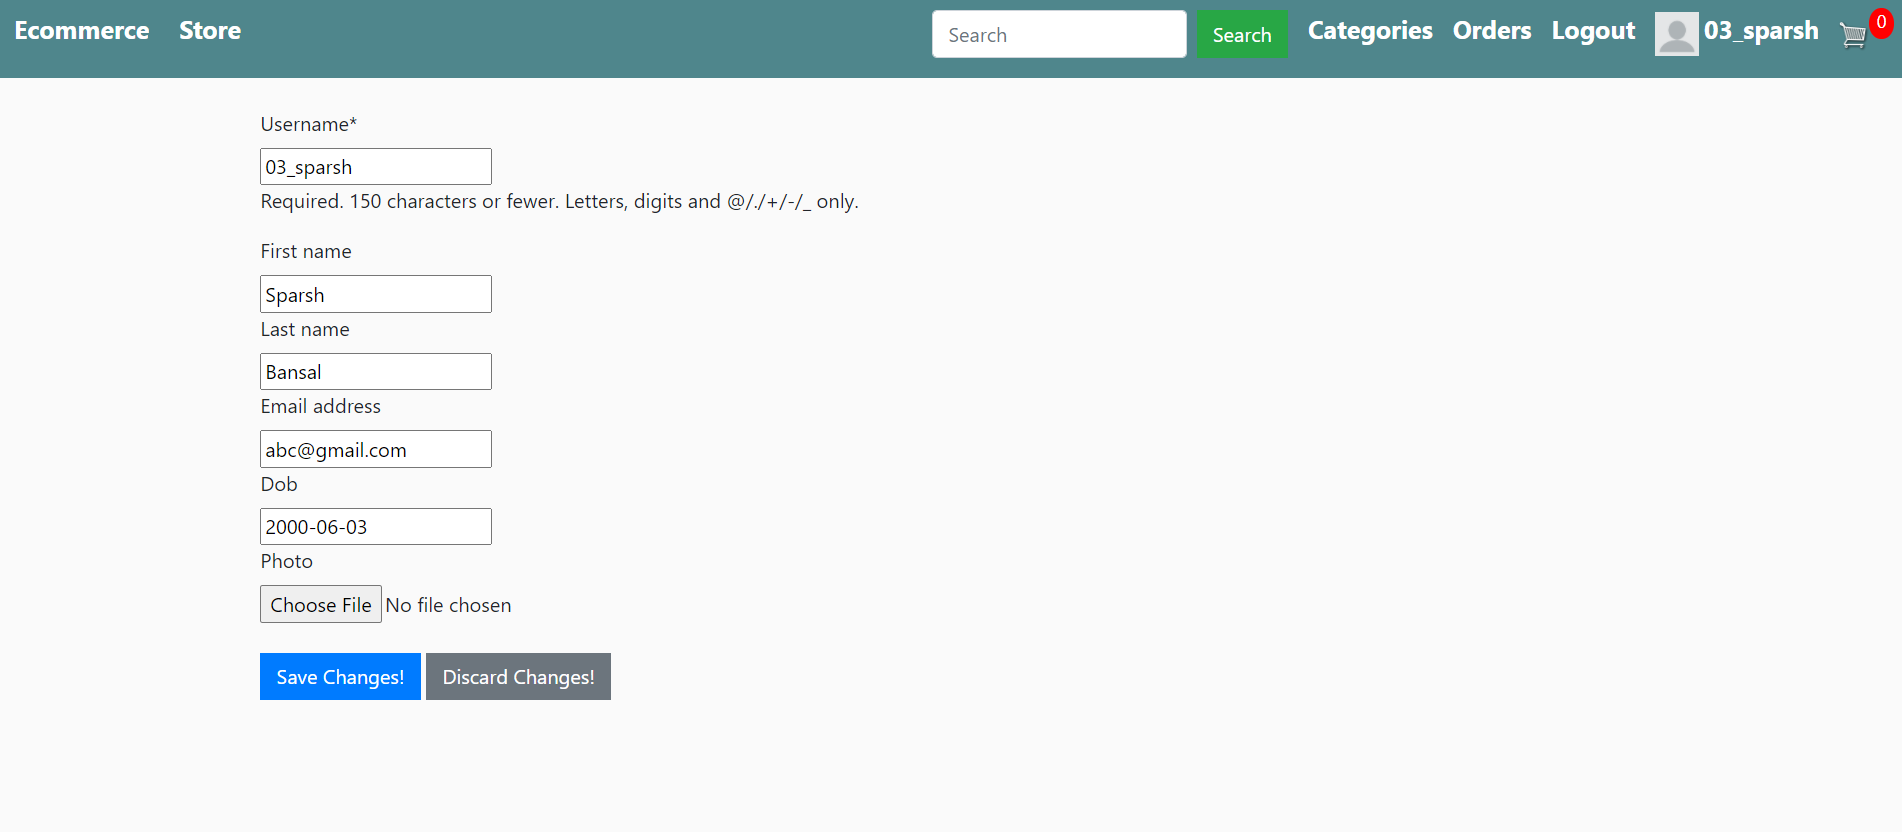
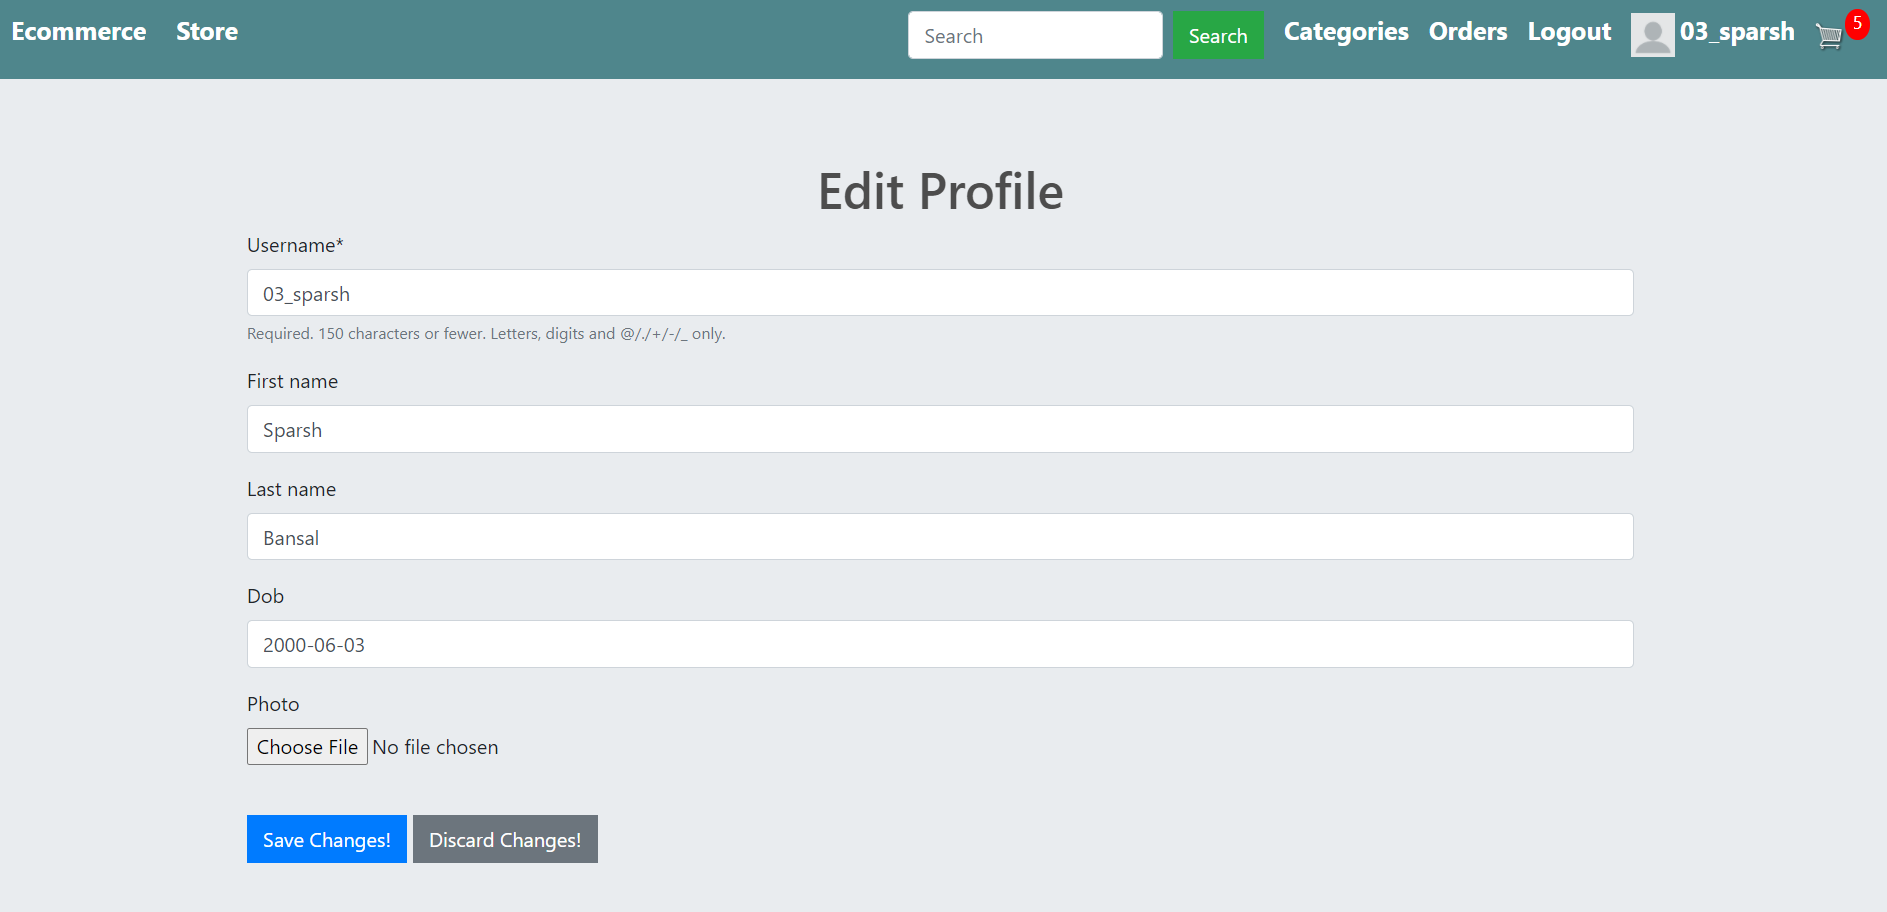
crispy bug fix

diff --git a/store/templates/store/main.html b/store/templates/store/main.html
@@ -12,7 +12,7 @@
 	<script src="https://code.jquery.com/jquery-3.2.1.slim.min.js" integrity="sha384-KJ3o2DKtIkvYIK3UENzmM7KCkRr/rE9/Qpg6aAZGJwFDMVNA/GpGFF93hXpG5KkN" crossorigin="anonymous"></script>
 	<script src="https://cdnjs.cloudflare.com/ajax/libs/popper.js/1.12.9/umd/popper.min.js" integrity="sha384-ApNbgh9B+Y1QKtv3Rn7W3mgPxhU9K/ScQsAP7hUibX39j7fakFPskvXusvfa0b4Q" crossorigin="anonymous"></script>
 	<link rel="stylesheet" href="https://maxcdn.bootstrapcdn.com/bootstrap/4.0.0/css/bootstrap.min.css" integrity="sha384-Gn5384xqQ1aoWXA+058RXPxPg6fy4IWvTNh0E263XmFcJlSAwiGgFAW/dAiS6JXm" crossorigin="anonymous">
-	<script src="https://maxcdn.bootstrapcdn.com/bootstrap/4.0.0/js/bootstrap.min.js" integrity="sha384-JZR6Spejh4U02d8jOt6vLEHfe/JQGiRRSQQxSfFWpi1MquVdAyjUar5+76PVCmYl" crossorigin="anonymous"></script>
+	<script src="https://maxscdn.bootstrapcdn.com/bootstrap/4.0.0/js/bootstrap.min.js" integrity="sha384-JZR6Spejh4U02d8jOt6vLEHfe/JQGiRRSQQxSfFWpi1MquVdAyjUar5+76PVCmYl" crossorigin="anonymous"></script>
 	<link rel="stylesheet" href="https://cdnjs.cloudflare.com/ajax/libs/font-awesome/5.14.0/css/all.min.css" integrity="sha512-1PKOgIY59xJ8Co8+NE6FZ+LOAZKjy+KY8iq0G4B3CyeY6wYHN3yt9PW0XpSriVlkMXe40PTKnXrLnZ9+fkDaog==" crossorigin="anonymous" />
 
 	<link rel="stylesheet" type="text/css" href="{% static 'store/css/main.css' %}">
@@ -115,6 +115,7 @@
 	<footer class="footer">
 		<p style="text-align: center;">No CopyRight infringement intended!</p>
 	</footer>
+	<script src="https://stackpath.bootstrapcdn.com/bootstrap/4.4.1/js/bootstrap.min.js" integrity="sha384-wfSDF2E50Y2D1uUdj0O3uMBJnjuUD4Ih7YwaYd1iqfktj0Uod8GCExl3Og8ifwB6" crossorigin="anonymous"></script>
 	<script src="https://unpkg.com/ionicons@5.1.2/dist/ionicons.js"></script>
 	<script src="https://code.jquery.com/jquery-3.4.1.js" integrity="sha256-WpOohJOqMqqyKL9FccASB9O0KwACQJpFTUBLTYOVvVU=" crossorigin="anonymous"></script>
 
@@ -122,6 +123,5 @@
 	
 	<script src="https://cdn.jsdelivr.net/npm/popper.js@1.16.0/dist/umd/popper.min.js" integrity="sha384-Q6E9RHvbIyZFJoft+2mJbHaEWldlvI9IOYy5n3zV9zzTtmI3UksdQRVvoxMfooAo" crossorigin="anonymous"></script>
 
-	<script src="https://stackpath.bootstrapcdn.com/bootstrap/4.4.1/js/bootstrap.min.js" integrity="sha384-wfSDF2E50Y2D1uUdj0O3uMBJnjuUD4Ih7YwaYd1iqfktj0Uod8GCExl3Og8ifwB6" crossorigin="anonymous"></script>
 </body>
 </html>

diff --git a/accounts/templates/accounts/edit_profile.html b/accounts/templates/accounts/edit_profile.html
@@ -1,7 +1,7 @@
 {% extends 'store/main.html' %}
 {% load crispy_forms_tags %}
 {% block content %}
-
+	<h1 style="text-align: center;">Edit Profile</h1>
 	<form method="POST" enctype="multipart/form-data">
 		{% csrf_token %}
 		{{ user_form|crispy }}

diff --git a/accounts/templates/accounts/register.html b/accounts/templates/accounts/register.html
@@ -2,7 +2,6 @@
 {% load crispy_forms_tags %}
 {% block content %}
 <h1 class="display-5">Create a new account!</h1>
-<hr class="my-4">
 <br>
 <form method="POST">
 	{% csrf_token %}

diff --git a/ecommerce/settings.py b/ecommerce/settings.py
@@ -77,6 +77,7 @@ TEMPLATES = [
                 'django.contrib.messages.context_processors.messages',
                 'social_django.context_processors.backends',
                 'social_django.context_processors.login_redirect',
+                # 'django.core.context_processors.csrf',
             ],
         },
     },
@@ -136,6 +137,7 @@ STATIC_URL = '/static/'
 
 STATICFILES_DIRS = [STATIC_DIR,]
 STATIC_ROOT = os.path.join(BASE_DIR ,'staticfiles')
+CRISPY_TEMPLATE_PACK = 'bootstrap4'
 
 MEDIA_URL = '/images/'
 MEDIA_ROOT = os.path.join(STATIC_DIR,'images')
